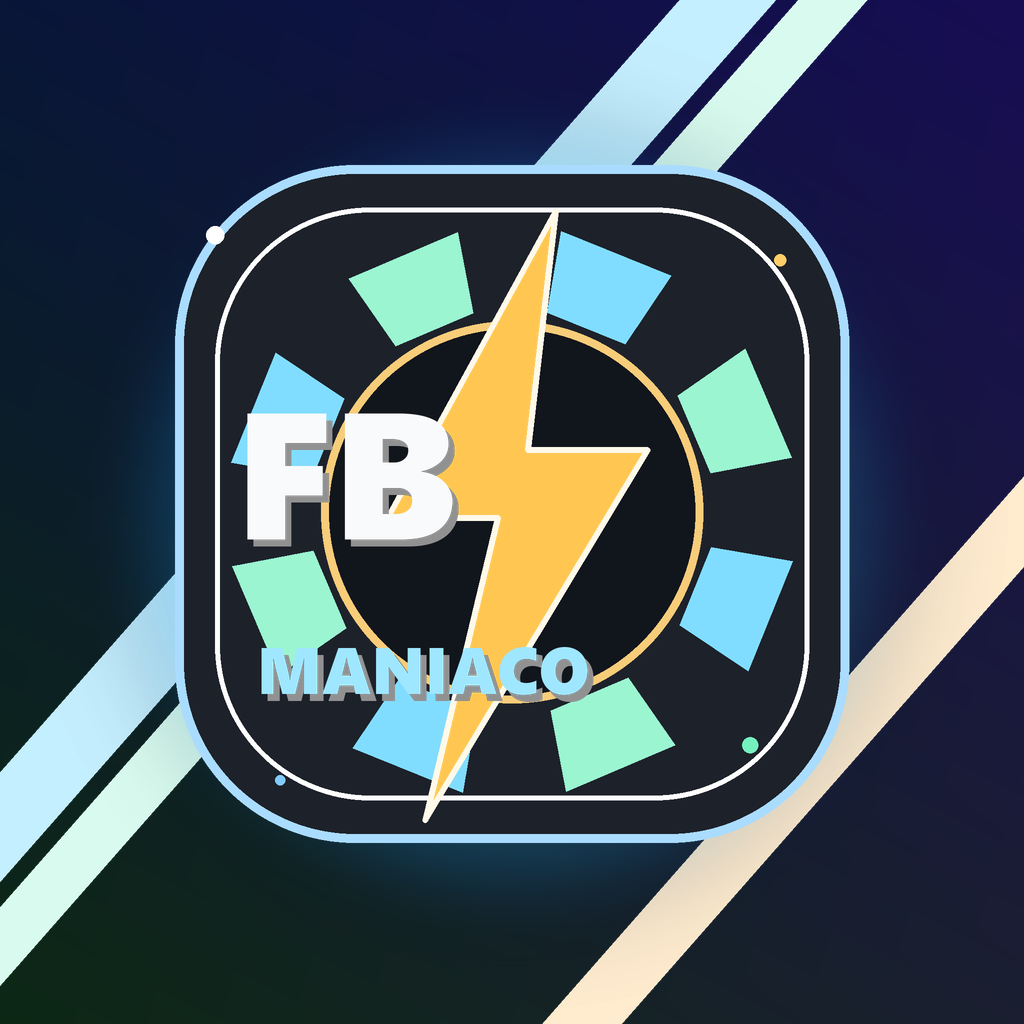
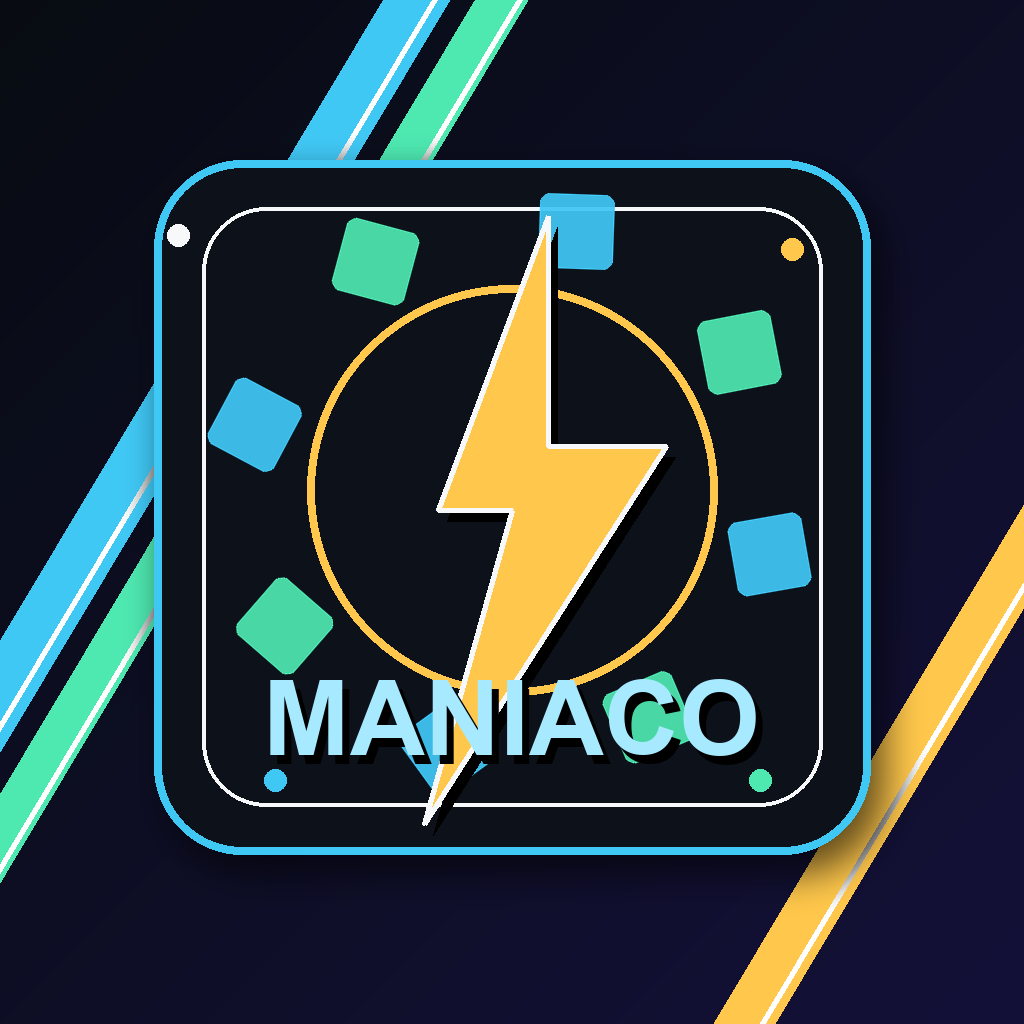
Rename visible brand to Maniaco

diff --git a/apps/api/src/server.ts b/apps/api/src/server.ts
@@ -73,7 +73,7 @@ export const buildServer = async (input: { config: ApiConfig; store: DataStore; 
   await app.register(cors, { origin: input.config.corsOrigin });
   await app.register(swagger, {
     openapi: {
-      info: { title: "FBmaniaco API", version: "0.1.0" },
+      info: { title: "Maniaco API", version: "0.1.0" },
       components: {
         securitySchemes: {
           bearerAuth: { type: "http", scheme: "bearer" }
@@ -462,15 +462,15 @@ export const buildServer = async (input: { config: ApiConfig; store: DataStore; 
   app.get("/legal/privacy", async (_request, reply) => {
     return reply.type("text/html; charset=utf-8").send(
       legalPage(
-        "Politica de privacidad de FBmaniaco",
-        `<h1>Politica de privacidad de FBmaniaco</h1>
-        <p>FBmaniaco ayuda a administrar contenido para paginas de Facebook conectadas por el usuario. Solo usamos los datos necesarios para autenticar la cuenta, listar paginas autorizadas, preparar contenido, programar publicaciones y mostrar resultados operativos dentro de la aplicacion.</p>
+        "Politica de privacidad de Maniaco",
+        `<h1>Politica de privacidad de Maniaco</h1>
+        <p>Maniaco ayuda a administrar contenido para paginas de Facebook conectadas por el usuario. Solo usamos los datos necesarios para autenticar la cuenta, listar paginas autorizadas, preparar contenido, programar publicaciones y mostrar resultados operativos dentro de la aplicacion.</p>
         <h2>Datos que tratamos</h2>
         <p>Podemos almacenar identificadores de usuario, workspace, paginas de Facebook autorizadas, permisos concedidos, imagenes subidas por el usuario, textos generados o editados, estados de jobs y registros tecnicos necesarios para seguridad y soporte.</p>
         <h2>Uso de datos de Meta</h2>
         <p>Los datos recibidos desde Meta Graph API se usan unicamente para conectar paginas autorizadas, validar permisos, publicar contenido aprobado por el usuario y consultar resultados relacionados con esas paginas. No vendemos datos ni los compartimos con terceros para publicidad.</p>
         <h2>Conservacion y eliminacion</h2>
-        <p>El usuario puede solicitar eliminacion de datos escribiendo a ${legalContactEmail}. Tambien puede desconectar FBmaniaco desde la configuracion de Facebook o Meta.</p>
+        <p>El usuario puede solicitar eliminacion de datos escribiendo a ${legalContactEmail}. Tambien puede desconectar Maniaco desde la configuracion de Facebook o Meta.</p>
         <h2>Contacto</h2>
         <p>Para privacidad, soporte o eliminacion de datos: ${legalContactEmail}.</p>`
       )
@@ -480,13 +480,13 @@ export const buildServer = async (input: { config: ApiConfig; store: DataStore; 
   app.get("/legal/terms", async (_request, reply) => {
     return reply.type("text/html; charset=utf-8").send(
       legalPage(
-        "Condiciones de servicio de FBmaniaco",
-        `<h1>Condiciones de servicio de FBmaniaco</h1>
-        <p>FBmaniaco es una herramienta para organizar, generar, revisar, programar y publicar contenido en paginas de Facebook autorizadas por el usuario.</p>
+        "Condiciones de servicio de Maniaco",
+        `<h1>Condiciones de servicio de Maniaco</h1>
+        <p>Maniaco es una herramienta para organizar, generar, revisar, programar y publicar contenido en paginas de Facebook autorizadas por el usuario.</p>
         <h2>Responsabilidad del usuario</h2>
         <p>El usuario es responsable del contenido que sube, aprueba y publica, asi como de contar con permisos suficientes sobre las paginas conectadas.</p>
         <h2>Publicacion y automatizacion</h2>
-        <p>Las acciones sensibles, incluyendo publicacion en Facebook, requieren autorizacion del usuario y permisos validos de Meta. FBmaniaco puede procesar tareas en segundo plano para evitar bloqueos de la aplicacion.</p>
+        <p>Las acciones sensibles, incluyendo publicacion en Facebook, requieren autorizacion del usuario y permisos validos de Meta. Maniaco puede procesar tareas en segundo plano para evitar bloqueos de la aplicacion.</p>
         <h2>Disponibilidad</h2>
         <p>El servicio puede cambiar durante el piloto privado. Trabajamos para mantener disponibilidad, seguridad y trazabilidad de las acciones importantes.</p>
         <h2>Contacto</h2>
@@ -498,9 +498,9 @@ export const buildServer = async (input: { config: ApiConfig; store: DataStore; 
   app.get("/legal/data-deletion", async (_request, reply) => {
     return reply.type("text/html; charset=utf-8").send(
       legalPage(
-        "Eliminacion de datos de FBmaniaco",
-        `<h1>Eliminacion de datos de FBmaniaco</h1>
-        <p>Para solicitar la eliminacion de datos asociados a FBmaniaco, envia un correo a ${legalContactEmail} con el asunto "Eliminar datos FBmaniaco".</p>
+        "Eliminacion de datos de Maniaco",
+        `<h1>Eliminacion de datos de Maniaco</h1>
+        <p>Para solicitar la eliminacion de datos asociados a Maniaco, envia un correo a ${legalContactEmail} con el asunto "Eliminar datos Maniaco".</p>
         <p>Incluye el correo o cuenta con la que usas la aplicacion y, si aplica, el nombre de la pagina de Facebook conectada. Procesaremos la solicitud y eliminaremos o anonimizaremos los datos operativos que no debamos conservar por seguridad, auditoria o cumplimiento.</p>
         <p>Tambien puedes revocar el acceso desde Facebook o Meta en la seccion de apps y sitios web conectados.</p>`
       )

diff --git a/apps/mobile/App.tsx b/apps/mobile/App.tsx
@@ -431,7 +431,7 @@ function BootScreen() {
     updatePromptShown.current = true;
     NativeAlert.alert(
       availableUpdate.mandatory ? "Actualizacion requerida" : "Actualizacion disponible",
-      availableUpdate.notes ?? `Ya esta lista FBmaniaco ${availableUpdate.versionName}.`,
+      availableUpdate.notes ?? `Ya esta lista Maniaco ${availableUpdate.versionName}.`,
       [
         ...(availableUpdate.mandatory ? [] : [{ text: "Despues", style: "cancel" as const }]),
         { text: "Actualizar", onPress: () => void openAppUpdate(availableUpdate) }
@@ -842,7 +842,7 @@ function BootScreen() {
 
   const stateText = useMemo(() => {
     if (bootstrap.isLoading) return "Revisando conexion inicial...";
-    if (bootstrap.isError) return "No pudimos conectar con FBmaniaco.";
+    if (bootstrap.isError) return "No pudimos conectar con Maniaco.";
     if (!bootstrap.data?.authenticated) return "Conecta Facebook para empezar.";
     if (bootstrap.data.nextStep === "connect_meta" || bootstrap.data.nextStep === "recover_meta") return "Sesion segura lista.";
     if (bootstrap.data.nextStep === "select_page") return "Facebook conectado: elige pagina.";
@@ -1368,7 +1368,7 @@ function TopBar({ busy, onRefresh }: { busy: boolean; onRefresh: () => void }) {
   return (
     <View style={styles.topBar}>
       <View style={styles.flex}>
-        <Text style={styles.productKicker}>FBmaniaco</Text>
+        <Text style={styles.productKicker}>Maniaco</Text>
         <Text style={styles.productTitle}>App Perrona</Text>
       </View>
       <IconButton icon={busy ? "sync" : "refresh"} label="Actualizar" disabled={busy} onPress={onRefresh} />

diff --git a/apps/api/src/db/local-store.ts b/apps/api/src/db/local-store.ts
@@ -254,7 +254,7 @@ export class LocalDataStore implements DataStore {
     const timestamp = now();
     const workspace: Workspace = {
       id: randomUUID(),
-      name: "Mi workspace FBmaniaco",
+      name: "Mi workspace Maniaco",
       ownerUserId: userId,
       status: "activo",
       createdAt: timestamp,
@@ -493,7 +493,7 @@ export class LocalDataStore implements DataStore {
       pages: [
         {
           metaPageId: "mock-page-1",
-          pageName: "FBmaniaco Demo",
+          pageName: "Maniaco Demo",
           coverPhotoUrl: "https://images.unsplash.com/photo-1497366754035-f200968a6e72?w=1200",
           profilePhotoUrl: "https://images.unsplash.com/photo-1517245386807-bb43f82c33c4?w=320",
           category: "Facebook Page",

diff --git a/apps/api/src/db/supabase-store.ts b/apps/api/src/db/supabase-store.ts
@@ -389,7 +389,7 @@ export class SupabaseDataStoreCore {
       const workspaceId = randomUUID();
       const workspaceResult = await client.query(
         `insert into public.workspaces (id, name, owner_user_id, status, created_at, updated_at)
-         values ($1, 'Mi workspace FBmaniaco', $2, 'activo', now(), now())
+         values ($1, 'Mi workspace Maniaco', $2, 'activo', now(), now())
          returning *`,
         [workspaceId, userId]
       );
@@ -636,7 +636,7 @@ export class SupabaseDataStoreCore {
       pages: [
         {
           metaPageId: "mock-page-1",
-          pageName: "FBmaniaco Demo",
+          pageName: "Maniaco Demo",
           coverPhotoUrl: "https://images.unsplash.com/photo-1497366754035-f200968a6e72?w=1200",
           profilePhotoUrl: "https://images.unsplash.com/photo-1517245386807-bb43f82c33c4?w=320",
           category: "Facebook Page",

diff --git a/apps/api/src/auth.ts b/apps/api/src/auth.ts
@@ -52,7 +52,7 @@ export const authenticateBearer = async (input: {
       : typeof result.data.user.user_metadata?.full_name === "string"
         ? result.data.user.user_metadata.full_name
         : result.data.user.is_anonymous
-          ? "Usuario FBmaniaco"
+          ? "Usuario Maniaco"
           : undefined;
   const actor = { userId: result.data.user.id, email };
   const user = await input.store.upsertLocalUser({

diff --git a/apps/mobile/src/api/client.ts b/apps/mobile/src/api/client.ts
@@ -219,7 +219,7 @@ export const getBootstrapStatus = async (token: string): Promise<BootstrapStatus
       authorization: `Bearer ${token}`,
       "x-request-id": `mobile-${Date.now()}`
     }
-  }, "No pudimos iniciar FBmaniaco.");
+  }, "No pudimos iniciar Maniaco.");
   return json as BootstrapStatus;
 };
 

diff --git a/packages/providers/src/meta.ts b/packages/providers/src/meta.ts
@@ -119,7 +119,7 @@ class MockMetaProvider implements MetaProvider {
       pages: [
         {
           metaPageId: "mock-page-1",
-          pageName: "FBmaniaco Demo",
+          pageName: "Maniaco Demo",
           coverPhotoUrl: "https://images.unsplash.com/photo-1497366754035-f200968a6e72?w=1200",
           profilePhotoUrl: "https://images.unsplash.com/photo-1517245386807-bb43f82c33c4?w=320",
           category: "Facebook Page",

diff --git a/packages/providers/src/openai.ts b/packages/providers/src/openai.ts
@@ -273,7 +273,7 @@ export const createVisionAnalysisProvider = (config: OpenAiProviderConfig): Visi
                 {
                   type: "input_text",
                   text:
-                    "Analiza la imagen para FBmaniaco. Devuelve solo datos observables y evita inferir claims comerciales, precios o promociones no visibles."
+                    "Analiza la imagen para Maniaco. Devuelve solo datos observables y evita inferir claims comerciales, precios o promociones no visibles."
                 }
               ]
             },